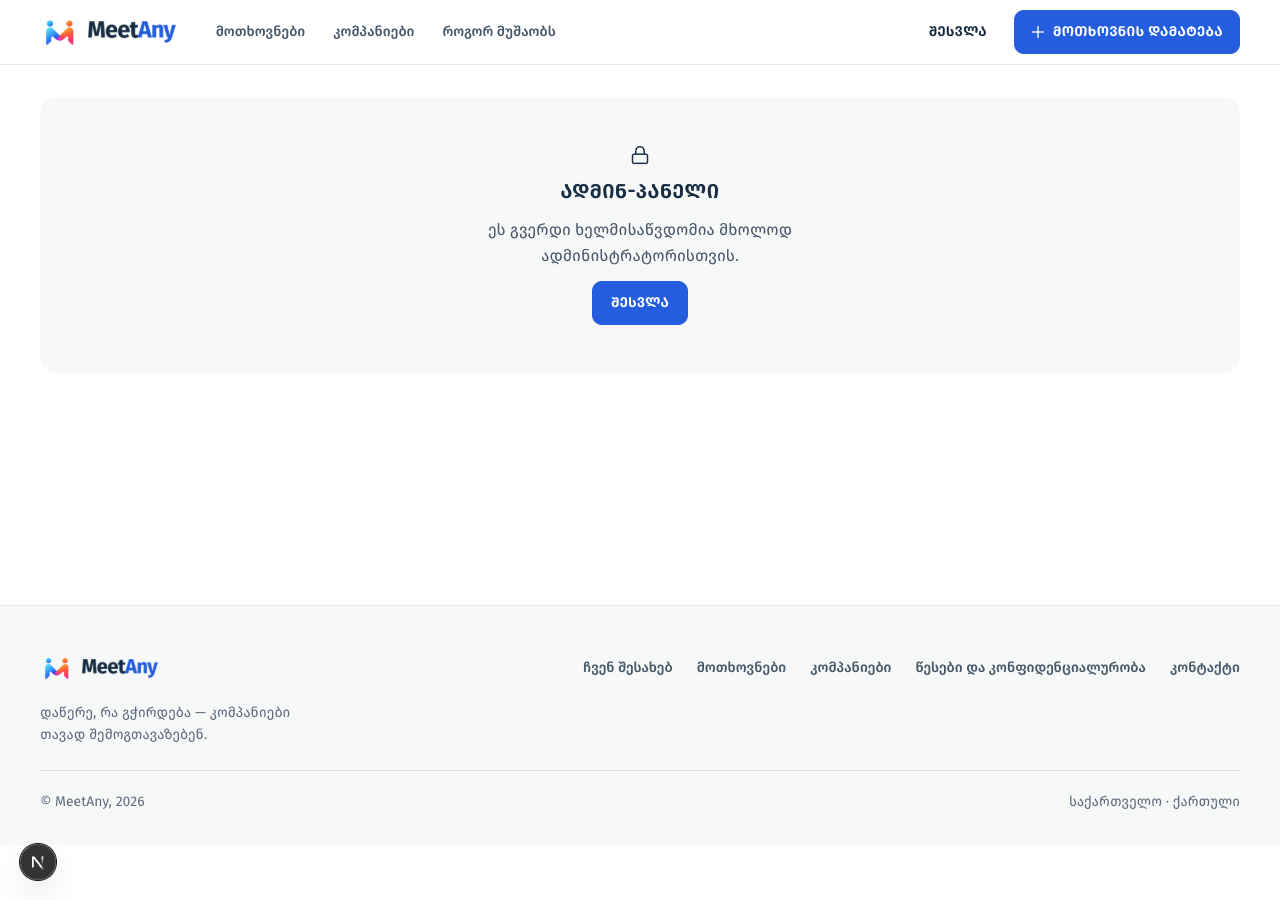
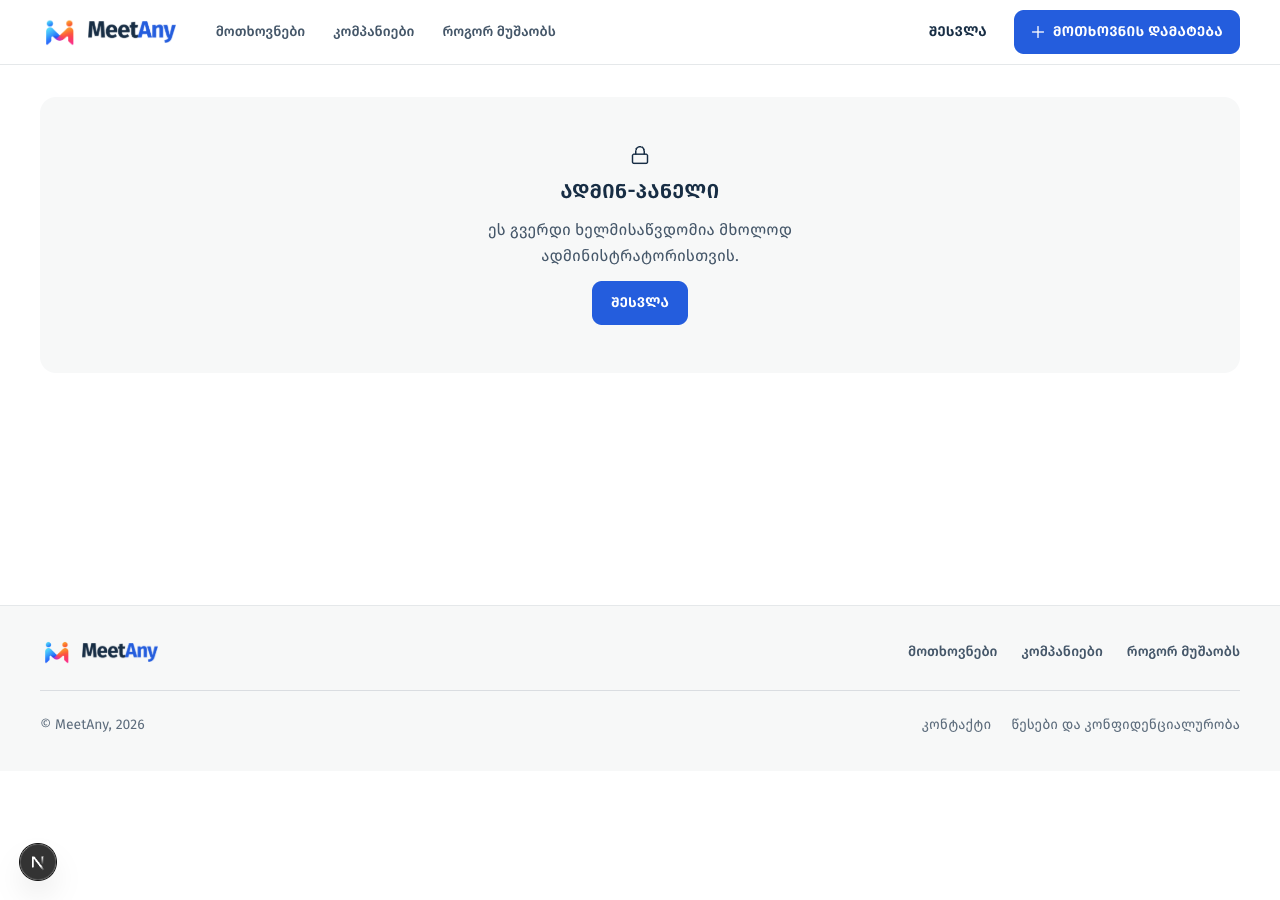
Simplify company profile and shared account navigation

diff --git a/web/app/components/market/CompanyProfilePageContent.tsx b/web/app/components/market/CompanyProfilePageContent.tsx
@@ -5,13 +5,9 @@ import { useSearchParams } from "next/navigation";
 import Link from "next/link";
 import { Icon } from "../Icon";
 import { CompanyAvatar } from "./CompanyAvatar";
-import { SectionHead } from "./SectionHead";
-import { TagList } from "./TagList";
-import { MobileActionBar } from "./MobileActionBar";
 import { CallButton } from "./CallButton";
-import { statsLabel } from "./CompanyRow";
 import { useMarketStore } from "../../lib/market-client";
-import { categories, categoryPhoto, cities } from "../../lib/categories";
+import { categories, cities } from "../../lib/categories";
 import { dateLabel } from "../../lib/format";
 import { fetchPhone } from "../../lib/phones";
 
@@ -71,101 +67,56 @@ export function CompanyProfilePageContent() {
 
   return (
     <div className="ma-page company-profile">
-      <header
-        className="r2-band ma-page-head"
-        style={{ "--band-photo": `url(/assets/photos/${categoryPhoto[c.industry] || categoryPhoto.other})` } as React.CSSProperties}
-      >
+      <Link className="ma-back" href="/companies/"><Icon name="arrow-left" />კომპანიები</Link>
+      <header className="company-profile-head">
         <CompanyAvatar name={name} size="xl" />
-        <div>
-          <span className="ma-eyebrow">კომპანიის პროფილი</span>
+        <div className="company-profile-identity">
           <h1 className="ma-h1">{name}</h1>
-          <p className="ma-lead">
-            {categories[c.industry] || c.industry} · {cities[c.city] || c.city}
-          </p>
-          <div className="ma-cluster">
-            <span>{statsLabel(stats)}</span>
-          </div>
-          {phone ? (
-            <div className="ma-cluster">
-              <CallButton phone={phone} />
-            </div>
-          ) : null}
+          <p>{categories[c.industry] || c.industry}</p>
+          <span className="company-profile-city"><Icon name="map-pin" />{cities[c.city] || c.city}</span>
         </div>
+        {phone ? <div className="company-profile-contact"><CallButton phone={phone} /></div> : null}
       </header>
-
-      <div className="ma-proto-account">
-        <aside className="ma-panel r2-facts">
-          <h2 className="ma-h3">ფაქტები</h2>
-          <dl className="ma-kv">
-            <div>
-              <dt>ქალაქი</dt>
-              <dd>{cities[c.city] || c.city}</dd>
-            </div>
-            <div>
-              <dt>ემსახურება</dt>
-              <dd>{(c.serviceCities || []).map((id: string) => cities[id] || id).join(", ") || "არ არის მითითებული"}</dd>
-            </div>
-            <div>
-              <dt>წევრია</dt>
-              <dd>{dateLabel(c.createdAt)}</dd>
-            </div>
-            <div>
-              <dt>გაგზავნილი</dt>
-              <dd>{stats.sent}</dd>
-            </div>
-            <div>
-              <dt>არჩეული</dt>
-              <dd>{stats.chosen}</dd>
-            </div>
-          </dl>
-        </aside>
-        <div className="ma-stack">
-          <section className="r2-section">
-            <SectionHead eyebrow="კომპანიის შესახებ" title="ჩვენს შესახებ" />
-            <p>{c.about || "კომპანიას აღწერა ჯერ არ დაუმატებია."}</p>
-          </section>
-          <section className="r2-section">
-            <SectionHead eyebrow="მომსახურება" title="რას გთავაზობთ" />
-            <TagList items={c.offers || []} emptyLabel="შეთავაზებები ჯერ არ არის მითითებული." />
-          </section>
-          <section className="r2-section">
-            <SectionHead eyebrow="თანამშრომლობა" title="რას ვეძებთ" />
-            <TagList items={c.seeks || []} emptyLabel="საჭიროებები ჯერ არ არის მითითებული." />
-          </section>
-          <section className="r2-section">
-            <SectionHead eyebrow="კომპანიის საჭიროებები" title="ღია მოთხოვნები" />
-            {openRequests.length ? (
-              <div className="ma-stack">
-                {openRequests.map((r) => (
-                  <article className="ma-panel" key={r.id}>
-                    <Link className="ma-title ma-proto-rowtitle" href={`/requests/view/?id=${r.id}`}>
-                      {r.title}
-                    </Link>
-                    <p className="ma-muted">
-                      {r.city} · {r.offerCount} შეთავაზება
-                    </p>
-                  </article>
-                ))}
-              </div>
-            ) : (
-              <p className="ma-muted">ამ კომპანიას ღია მოთხოვნა ჯერ არ აქვს.</p>
-            )}
-          </section>
-        </div>
+      <div className="company-profile-coverage">
+        <Icon name="globe" />
+        <div><span>მომსახურების არეალი</span><p>{(c.serviceCities || []).map((id: string) => cities[id] || id).join(" · ") || "არ არის მითითებული"}</p></div>
       </div>
 
-      <section className="r2-cta">
-        <div>
-          <span className="ma-eyebrow ma-eyebrow--brand">იპოვე შესაბამისი პარტნიორი</span>
-          <h2 className="ma-h2">გჭირდება {categories[c.industry] || c.industry}?</h2>
-          <Link className="ma-btn ma-btn--primary" href={ctaHref}>
-            მოთხოვნის დამატება ამ დარგში
-          </Link>
+      <div className="company-profile-body">
+        <div className="company-profile-main">
+          <section aria-labelledby="company-about">
+            <h2 id="company-about" className="ma-h3">კომპანიის შესახებ</h2>
+            <p className="company-profile-description">{c.about || "კომპანიას აღწერა ჯერ არ დაუმატებია."}</p>
+          </section>
+          <section id="offers" aria-labelledby="company-services">
+            <h2 id="company-services" className="ma-h3">პროდუქტები და მომსახურება</h2>
+            {c.offers?.length ? <ul className="company-profile-services">{c.offers.map((offer: string) => <li key={offer}>{offer}</li>)}</ul> : <p className="ma-muted">ჯერ არ არის მითითებული.</p>}
+          </section>
         </div>
-        <img src="/assets/photos/workshop-process-banner.jpg" alt="" width={640} height={420} />
-      </section>
+        <aside className="company-profile-partnership" aria-labelledby="company-partnership">
+          <h2 id="company-partnership" className="ma-h3">თანამშრომლობის ინტერესები</h2>
+          {c.seeks?.length ? <ul>{c.seeks.map((seek: string) => <li key={seek}>{seek}</li>)}</ul> : <p className="ma-muted">ჯერ არ არის მითითებული.</p>}
+          {phone ? <a className="ma-link" href={`tel:${phone.replace(/[^+\d]/g, "")}`}>დაუკავშირდი კომპანიას <Icon name="arrow-right" /></a> : null}
+        </aside>
+      </div>
 
-      <MobileActionBar label="მოთხოვნის დამატება ამ დარგში" href={ctaHref} />
+      <section className="company-profile-requests" aria-labelledby="company-requests">
+        <div className="company-profile-section-head">
+          <h2 id="company-requests" className="ma-h3">ღია მოთხოვნები <span>{openRequests.length}</span></h2>
+          <Link className="ma-link" href={ctaHref}>ამ დარგში მოთხოვნის დამატება <Icon name="plus" /></Link>
+        </div>
+        {openRequests.length ? <div className="company-profile-request-list">
+          {openRequests.map((r) => <article key={r.id}>
+            <Link className="ma-title ma-proto-rowtitle" href={`/requests/view/?id=${r.id}`}>{r.title}<Icon name="arrow-right" /></Link>
+            <p className="ma-small ma-muted">{r.city} · {r.offerCount} შეთავაზება</p>
+          </article>)}
+        </div> : <p className="ma-muted">ამ კომპანიას ღია მოთხოვნა ჯერ არ აქვს.</p>}
+      </section>
+      <dl className="company-profile-activity">
+        <div><dt>წევრია</dt><dd>{dateLabel(c.createdAt)}</dd></div>
+        <div><dt>გაგზავნილი შეთავაზება</dt><dd>{stats.sent}</dd></div>
+        <div><dt>არჩეული შეთავაზება</dt><dd>{stats.chosen}</dd></div>
+      </dl>
     </div>
   );
 }

diff --git a/web/app/styles/marketplace.css b/web/app/styles/marketplace.css
@@ -254,6 +254,49 @@
  .ma-proto .listing-footer>.ma-btn,.ma-proto .listing-footer>.listing-action{width:100%;justify-content:center;margin-left:0}
 }
 
-/* Profile sections already have a parent gap; avoid adding two section margins as well. */
-.company-profile .ma-proto-account>.ma-stack{gap:var(--space-8)}
-.company-profile .ma-proto-account>.ma-stack>.r2-section{margin-block:0}
+/* Company profile: identity/contact, capabilities, then collaboration. */
+.company-profile{display:grid;grid-template-columns:minmax(0,1fr);gap:var(--space-6)}
+.company-profile>.ma-back{margin:0;justify-self:start}
+.company-profile-head{display:flex;align-items:center;gap:var(--space-5);flex-wrap:wrap}
+.company-profile-head>.ma-avatar{width:var(--space-16);height:var(--space-16);font-size:var(--fs-h2)}
+.company-profile-identity{flex:1;min-width:0;display:grid;grid-template-columns:minmax(0,1fr);gap:var(--space-2);overflow-wrap:anywhere}
+.company-profile-identity>h1{overflow-wrap:anywhere}
+.company-profile-identity>p,.company-profile-city{color:var(--text-3);font-size:var(--fs-sm)}
+.company-profile-city{display:flex;align-items:center;gap:var(--space-1)}
+.company-profile-city .icon,.company-profile-coverage>.icon{width:var(--space-5);height:var(--space-5);flex:none}
+.company-profile-contact{margin-left:auto}
+.company-profile-coverage{display:flex;align-items:center;gap:var(--space-3);padding-block:var(--space-4);border-block:1px solid var(--border-subtle)}
+.company-profile-coverage>.icon{color:var(--text-3)}
+.company-profile-coverage>div{display:flex;gap:var(--space-3);flex-wrap:wrap;align-items:baseline}
+.company-profile-coverage span{font-size:var(--fs-sm);color:var(--text-3)}
+.company-profile-coverage p{font-size:var(--fs-sm);color:var(--text)}
+.company-profile-body{display:grid;grid-template-columns:minmax(0,1fr);gap:var(--space-8);align-items:start}
+.company-profile-main{display:grid;gap:var(--space-8);min-width:0}
+.company-profile-main section{display:grid;gap:var(--space-4);scroll-margin-top:var(--space-24)}
+.company-profile-description{max-width:65ch;line-height:var(--lh-body-lg);white-space:pre-line;overflow-wrap:anywhere}
+.company-profile-services{list-style:none;margin:0;padding:0;display:grid;gap:var(--space-3);grid-template-columns:minmax(0,1fr)}
+.company-profile-services li{padding:var(--space-3) var(--space-4);border-left:var(--space-1) solid var(--blue-100);background:var(--bg-subtle);overflow-wrap:anywhere}
+.company-profile-partnership{display:grid;gap:var(--space-4);padding:var(--space-5);background:var(--blue-50);border-radius:var(--radius-lg);min-width:0}
+.company-profile-partnership ul{display:grid;gap:var(--space-3);margin:0;padding-left:var(--space-5)}
+.company-profile-partnership li{padding-left:var(--space-1);overflow-wrap:anywhere;line-height:var(--lh-body)}
+.company-profile-partnership .ma-link{font-size:var(--fs-sm);justify-self:start}
+.company-profile-requests{display:grid;gap:var(--space-3);padding-top:var(--space-6);border-top:1px solid var(--border-subtle)}
+.company-profile-section-head{display:flex;align-items:center;justify-content:space-between;gap:var(--space-3);flex-wrap:wrap}
+.company-profile-section-head h2{display:flex;align-items:center;gap:var(--space-2)}
+.company-profile-section-head h2 span{font-size:var(--fs-sm);color:var(--text-3);font-variant-numeric:tabular-nums}
+.company-profile-section-head>.ma-link{font-size:var(--fs-sm)}
+.company-profile-request-list{display:grid;gap:var(--space-3)}
+.company-profile-request-list article{padding-block:var(--space-3);border-bottom:1px solid var(--border-subtle)}
+.company-profile-request-list .ma-proto-rowtitle{justify-content:space-between;gap:var(--space-4)}
+.company-profile-request-list .icon{flex:none}
+.company-profile-activity{display:flex;flex-wrap:wrap;gap:var(--space-3) var(--space-6);padding-top:var(--space-4);border-top:1px solid var(--border-subtle);margin:0;font-size:var(--fs-xs);color:var(--text-3)}
+.company-profile-activity>div{display:flex;gap:var(--space-2)}
+.company-profile-activity dd{margin:0}
+@media(min-width:1024px){.company-profile-body{grid-template-columns:minmax(0,1fr) calc(var(--space-20) * 4 + var(--space-6))}}
+@media(max-width:767px){
+ .company-profile-head{align-items:flex-start;gap:var(--space-3)}
+ .company-profile-head>.ma-avatar{width:var(--space-12);height:var(--space-12);font-size:var(--fs-h3)}
+ .company-profile-contact{width:100%;margin:0}
+ .company-profile-contact>.ma-btn{width:100%;justify-content:center}
+ .company-profile-body,.company-profile-main{gap:var(--space-6)}
+}

diff --git a/web/app/components/Header.tsx b/web/app/components/Header.tsx
@@ -17,7 +17,6 @@ export function Header() {
   const [menuOpen, setMenuOpen] = useState(false);
   const [accountOpen, setAccountOpen] = useState(false);
   const [pending, setPending] = useState(false);
-  const name = me?.company || me?.name || "ანგარიში";
   const links = me ? [
     ...(me.role === "admin" ? [["shield-check", "ადმინი", "/admin/"]] : []),
     ["clipboard-list", "ჩემი მოთხოვნები", "/account/?tab=requests"],
@@ -55,7 +54,7 @@ export function Header() {
             requestAnimationFrame(() => {const items = Array.from(dropdown.current?.querySelectorAll<HTMLElement>('[role="menuitem"]') || []); const index = items.indexOf(document.activeElement as HTMLElement); const next = e.key === "Home" ? 0 : e.key === "End" ? items.length - 1 : (index + (e.key === "ArrowUp" ? -1 : 1) + items.length) % items.length; items[next]?.focus();});
           }
         }}>
-          <button className="ma-menu__trigger" aria-haspopup="menu" aria-controls="ma-account-menu" aria-expanded={accountOpen} onClick={() => setAccountOpen(!accountOpen)}>{name}<Icon name="chevron-down"/></button>
+          <button className="ma-menu__trigger" aria-haspopup="menu" aria-controls="ma-account-menu" aria-expanded={accountOpen} onClick={() => setAccountOpen(!accountOpen)}><Icon name="user-round"/><span>ჩემი ანგარიში</span><Icon name="chevron-down"/></button>
           <div className="ma-menu__list" id="ma-account-menu" role="menu" hidden={!accountOpen}>
             {links.map(([icon, title, href]) => <Link key={href} className="ma-menu__item" role="menuitem" href={href} onClick={() => setAccountOpen(false)}><Icon name={icon}/>{title}</Link>)}
             <button className="ma-menu__item ma-menu__item--danger" role="menuitem" disabled={pending} onClick={logout}>გასვლა</button>
@@ -67,7 +66,7 @@ export function Header() {
     <dialog ref={mobile} id="ma-mnav" className="ma-mnav" aria-label="მენიუ" onClose={() => {setMenuOpen(false); opener.current?.focus();}} onClick={e => {if ((e.target as HTMLElement).closest("a")) mobile.current?.close();}}>
       <div className="ma-mnav__head">{brand}<button className="ma-mnav__close" aria-label="მენიუს დახურვა" onClick={() => mobile.current?.close()}><Icon name="x"/></button></div>
       <div className="ma-mnav__body"><nav className="ma-mnav__group" aria-label="ნავიგაცია">{nav("ma-mnav__link")}</nav>
-        <div className="ma-mnav__group"><span className="ma-eyebrow">{me ? name : "ანგარიში"}</span>{links.map(([icon, title, href]) => <Link key={href} className="ma-mnav__link" href={href}><Icon name={icon}/>{title}</Link>)}{me ? <button className="ma-mnav__link" disabled={pending} onClick={logout}>გასვლა</button> : null}</div>
+        <div className="ma-mnav__group"><span className="ma-eyebrow">{me ? "ჩემი ანგარიში" : "ანგარიში"}</span>{links.map(([icon, title, href]) => <Link key={href} className="ma-mnav__link" href={href}><Icon name={icon}/>{title}</Link>)}{me ? <button className="ma-mnav__link" disabled={pending} onClick={logout}>გასვლა</button> : null}</div>
       </div><div className="ma-mnav__foot">{add}</div>
     </dialog>
   </>;

diff --git a/web/app/styles/market.css b/web/app/styles/market.css
@@ -649,7 +649,7 @@ body:has(.ma-actionbar) .ma-toasts{bottom:calc(88px + env(safe-area-inset-bottom
 .ma-menu__trigger[aria-expanded="true"]{background:var(--bg-subtle);border-color:var(--border-strong)}
 .ma-menu__trigger>span:not(.ma-avatar){overflow:hidden;text-overflow:ellipsis;white-space:nowrap}
 .ma-menu__trigger .icon{width:18px;height:18px;color:var(--text-3);transition:transform var(--dur-fast) var(--ease)}
-.ma-menu__trigger[aria-expanded="true"] .icon{transform:rotate(180deg)}
+.ma-menu__trigger[aria-expanded="true"] .icon:last-child{transform:rotate(180deg)}
 .ma-menu__list{position:absolute;right:0;top:calc(100% + 8px);z-index:var(--z-menu);min-width:248px;max-width:calc(100vw - 32px);margin:0;padding:6px;list-style:none;border:1px solid var(--border);border-radius:var(--radius-lg);background:var(--white);box-shadow:var(--shadow-3);animation:ma-menu-in var(--dur-fast) var(--ease) both}
 .ma-menu__list[hidden]{display:none}
 .ma-menu--left .ma-menu__list{right:auto;left:0}
@@ -1223,4 +1223,25 @@ html:has(.ma-mnav[open]),html:has(.ma-sheet[open]){overflow:hidden}
   .m-btn-sm,.m-link,.m-check a,.m-form label[for]{position:relative}
   .m-link::before,.m-check a::before,.m-form label[for]::before{content:"";position:absolute;inset-inline:0;top:50%;height:var(--tap-min);min-width:var(--tap-min);transform:translateY(-50%)}
   .m-btn-sm::before{content:"";position:absolute;inset:calc(-1 * var(--space-1)) 0;min-height:var(--tap-min);min-width:var(--tap-min)}
+}
+
+/* Shared shell: short account label, primary navigation above legal links. */
+.ma-header__account .ma-menu__trigger{padding:var(--space-2) var(--space-3);white-space:nowrap;border-color:transparent;background:transparent}
+.ma-header__account .ma-menu__trigger:hover,.ma-header__account .ma-menu__trigger[aria-expanded="true"]{background:var(--bg-subtle)}
+.ma-footer__inner{padding-block:var(--space-6);gap:var(--space-4)}
+.ma-footer__top{align-items:center;gap:var(--space-3) var(--space-6)}
+.ma-footer__bottom{align-items:center;padding-top:var(--space-3)}
+.ma-footer__legal{display:flex;flex-wrap:wrap;gap:0 var(--space-5)}
+.ma-footer__legal a{display:inline-flex;align-items:center;min-height:var(--tap-min);color:var(--text-3);text-decoration:none}
+.ma-footer__legal a:hover{color:var(--blue-700);text-decoration:underline}
+@media (min-width:1024px) and (max-width:1199.98px){
+ .ma-header__inner{gap:var(--space-3)}
+ .ma-header__link{padding-inline:var(--space-2)}
+ .ma-header__account .ma-menu__trigger>.icon:first-child{display:none}
+}
+@media (max-width:767.98px){
+ .ma-footer__top{display:grid;gap:var(--space-2)}
+ .ma-footer__nav{gap:0 var(--space-4)}
+ .ma-footer__bottom{flex-direction:column;align-items:flex-start;gap:var(--space-1)}
+ .ma-footer__legal{column-gap:var(--space-4)}
 }

diff --git a/web/app/components/Footer.tsx b/web/app/components/Footer.tsx
@@ -22,19 +22,19 @@ export function Footer() {
                 style={{ height: 19 }}
               />
             </Link>
-            <p>დაწერე, რა გჭირდება — კომპანიები თავად შემოგთავაზებენ.</p>
           </div>
           <nav className="ma-footer__nav" aria-label="ქვედა ნავიგაცია">
-            <Link href="/#how">ჩვენ შესახებ</Link>
             <Link href="/requests/">მოთხოვნები</Link>
             <Link href="/companies/">კომპანიები</Link>
-            <Link href="/terms/">წესები და კონფიდენციალურობა</Link>
-            <Link href="/terms/#contact">კონტაქტი</Link>
+            <Link href="/#how">როგორ მუშაობს</Link>
           </nav>
         </div>
         <div className="ma-footer__bottom">
           <span>© MeetAny, 2026</span>
-          <span>საქართველო · ქართული</span>
+          <nav className="ma-footer__legal" aria-label="ინფორმაცია">
+            <Link href="/terms/#contact">კონტაქტი</Link>
+            <Link href="/terms/">წესები და კონფიდენციალურობა</Link>
+          </nav>
         </div>
       </div>
     </footer>

diff --git a/web/qa/README.md b/web/qa/README.md
@@ -34,3 +34,8 @@
 ## კატალოგების გამარტივება — 2026-09-23
 
 `simple-{companies,requests}-{1440,1024,390,320}.png` — მიმდინარე კომპაქტური ხედები. შემოწმდა: ძიების გასუფთავება/ფოკუსი/URL, ცარიელი შედეგი, reload/back, მობილური ფილტრი/Escape, ტექსტისა და კონტროლების ჩატევა. Build წარმატებულია; შეცვლილი კომპონენტების lint 0 შეცდომა / 2 არსებული img გაფრთხილება. ვიზუალური შემოწმებისას გასწორდა მოთხოვნის მეტამონაცემების ძველი flex-basis-ით გამოწვეული ცარიელი ადგილი და 320px-ზე დალაგების მოკლე სახელები.
+
+## პროფილისა და საერთო ნავიგაციის კრიტიკული გადახედვა — 2026-09-23
+
+`company-shell-{guest,member}-{1440,1024,768,390,320}.png`: კომპაქტური პროფილი, მოკლე ანგარიშის კონტროლი, ფუტერის ორი დონის ბმულები. სტუმრისა და შესული კლიენტის 10 ხედში ჰორიზონტალური გადაცდენა არ გამოვლენილა; desktop dropdown და mobile dialog იხურება Escape-ით და ფოკუსი ბრუნდება. გრძელი ქართული სათაური (მათ შორის უწყვეტი სიტყვა) შემოწმდა DOM-ში 1024/390/320-ზე, ბაზაში ჩაწერის გარეშე. სრული read-only browser smoke: 19 შემოწმება, 0 console error. Build წარმატებულია; სრული lint: 0 შეცდომა / 16 არსებული გაფრთხილება. კრიტიკული შეფასება და დარჩენილი UX შეზღუდვები აღწერილია DESIGN-DIRECTION.md-ში. ეს არ არის რეალურ მომხმარებლებთან ჩატარებული usability კვლევა.
+გრძელი სახელის პირველმა შემოწმებამ გამოავლინა CSS grid-ის ავტომატური მინიმალური სიგანით გადაცდენა; გასწორდა პროფილის/ვინაობის `minmax(0,1fr)` სვეტებით და სათაურის `overflow-wrap:anywhere`-ით. განმეორებითი შემოწმება სამივე სიგანეზე წარმატებულია.

diff --git a/DESIGN-SYSTEM.md b/DESIGN-SYSTEM.md
@@ -22,3 +22,5 @@ Tailwind/shadcn არ გამოიყენება. ახალი ფე
 მოთხოვნის დეტალი: ტექსტი, რაოდენობა და ვადა მარცხნივ; ავტორი, ტელეფონი და შესვლა მარჯვნივ კომპაქტურ პანელში; შესული კომპანიის შეთავაზება ძირითად სვეტშია, ტექსტისთვის საკმარისი სიგანით. მობილურზე ერთი სვეტია. მფლობელის შეთავაზებები ცალკე ფართო სექციაში რჩება.
 
 კატალოგების გამარტივება (2026-09-23): შედეგების გვერდებზე მარკეტინგული შესავლები ამოღებულია; მოთხოვნის სათაური პირველია; მობილურზე ფილტრი და დალაგება ერთ რიგშია. `CatalogSearch` აერთიანებს ძიებას და გასუფთავებას ფოკუსის შენარჩუნებით. მთავარი გვერდის განლაგება არ შეცვლილა.
+
+კომპანიის პროფილი და საერთო ნავიგაცია (2026-09-23): დიდი ფოტო-ბანერის ნაცვლად კომპაქტური ვინაობა და დარეკვა; მომსახურების არეალი ცალკე რიგში; აღწერა/პროდუქტები ძირითად სვეტში, თანამშრომლობის ინტერესები გვერდით. ღია მოთხოვნები ქვემოთაა, სტატისტიკა მეორეხარისხოვან ბოლო რიგში. განმეორებული სექციის წარწერები და დიდი საბოლოო CTA ამოღებულია. ჰედერში შესულ მომხმარებელს აქვს მოკლე „ჩემი ანგარიში“; კომპანიის სახელი რჩება ანგარიშსა და საჯარო პროფილში. ფუტერში ძირითადი ნავიგაცია გამოყოფილია კონტაქტისა და წესებისგან. ცვლილება საერთო ჰედერ/ფუტერზე ვრცელდება, მთავარი გვერდის შიდა სექციები უცვლელია.

diff --git a/web/qa/DESIGN-DIRECTION.md b/web/qa/DESIGN-DIRECTION.md
@@ -32,3 +32,13 @@ Reviewed [wlw](https://www.wlw.de/en), [Europages](https://www.europages.co.uk/)
 This supersedes the earlier light-blue catalog introduction: both catalog headers now use concise titles and search. Companies remain a directory with capability chips, small photos and call/profile actions. Requests prioritize the need itself, followed by category, author and logistics. Removed category-photo promotions and the large CTA from the company results page; all categories remain accessible through filters. Company activity statistics remain in profiles. Mobile filter/sort controls share one row. Search has an explicit clear control that restores input focus. No country/language filters are presented before the data and behavior exist.
 
 These are implementation and browser checks, not a claim of measured usability improvement with users.
+
+## Profile and shared navigation review, 2026-09-23
+
+The profile previously prioritized an industry stock photo, repeated section eyebrows, and a large facts sidebar over capabilities and contact. The header also used an unbounded company name as its account control, while footer navigation mixed discovery and legal links at the same level.
+
+Changed: compact company identity with a visible call action; a separate service-area row; description and services in the main column; collaboration interests in a secondary panel; open requests below; activity statistics as secondary metadata at the end. Removed the decorative photo hero, duplicate section labels, facts sidebar and oversized concluding CTA. The category-specific request action remains beside open requests. Header account control is now “ჩემი ანგარიში” for every signed-in role, including the mobile navigation heading. Footer separates discovery from contact/legal links and removes the promotional sentence.
+
+Critical review criteria going forward: Can a visitor identify the page purpose and next action? Does the first screen prioritize useful information? Are labels understandable without inference? Are secondary details taking attention from decisions? Does real Georgian text fit at intermediate widths? Do empty, long-content and authenticated states remain usable?
+
+Remaining design limitations: catalog company images still represent a category rather than a specific business; mobile header creation is an icon-only control (with an accessible label), whose discoverability should be checked with users. These are distinct from verified layout failures. Browser screenshots and successful builds do not establish usability with real businesses; that needs task-based observation (find a supplier, call, publish a need, send an offer).
